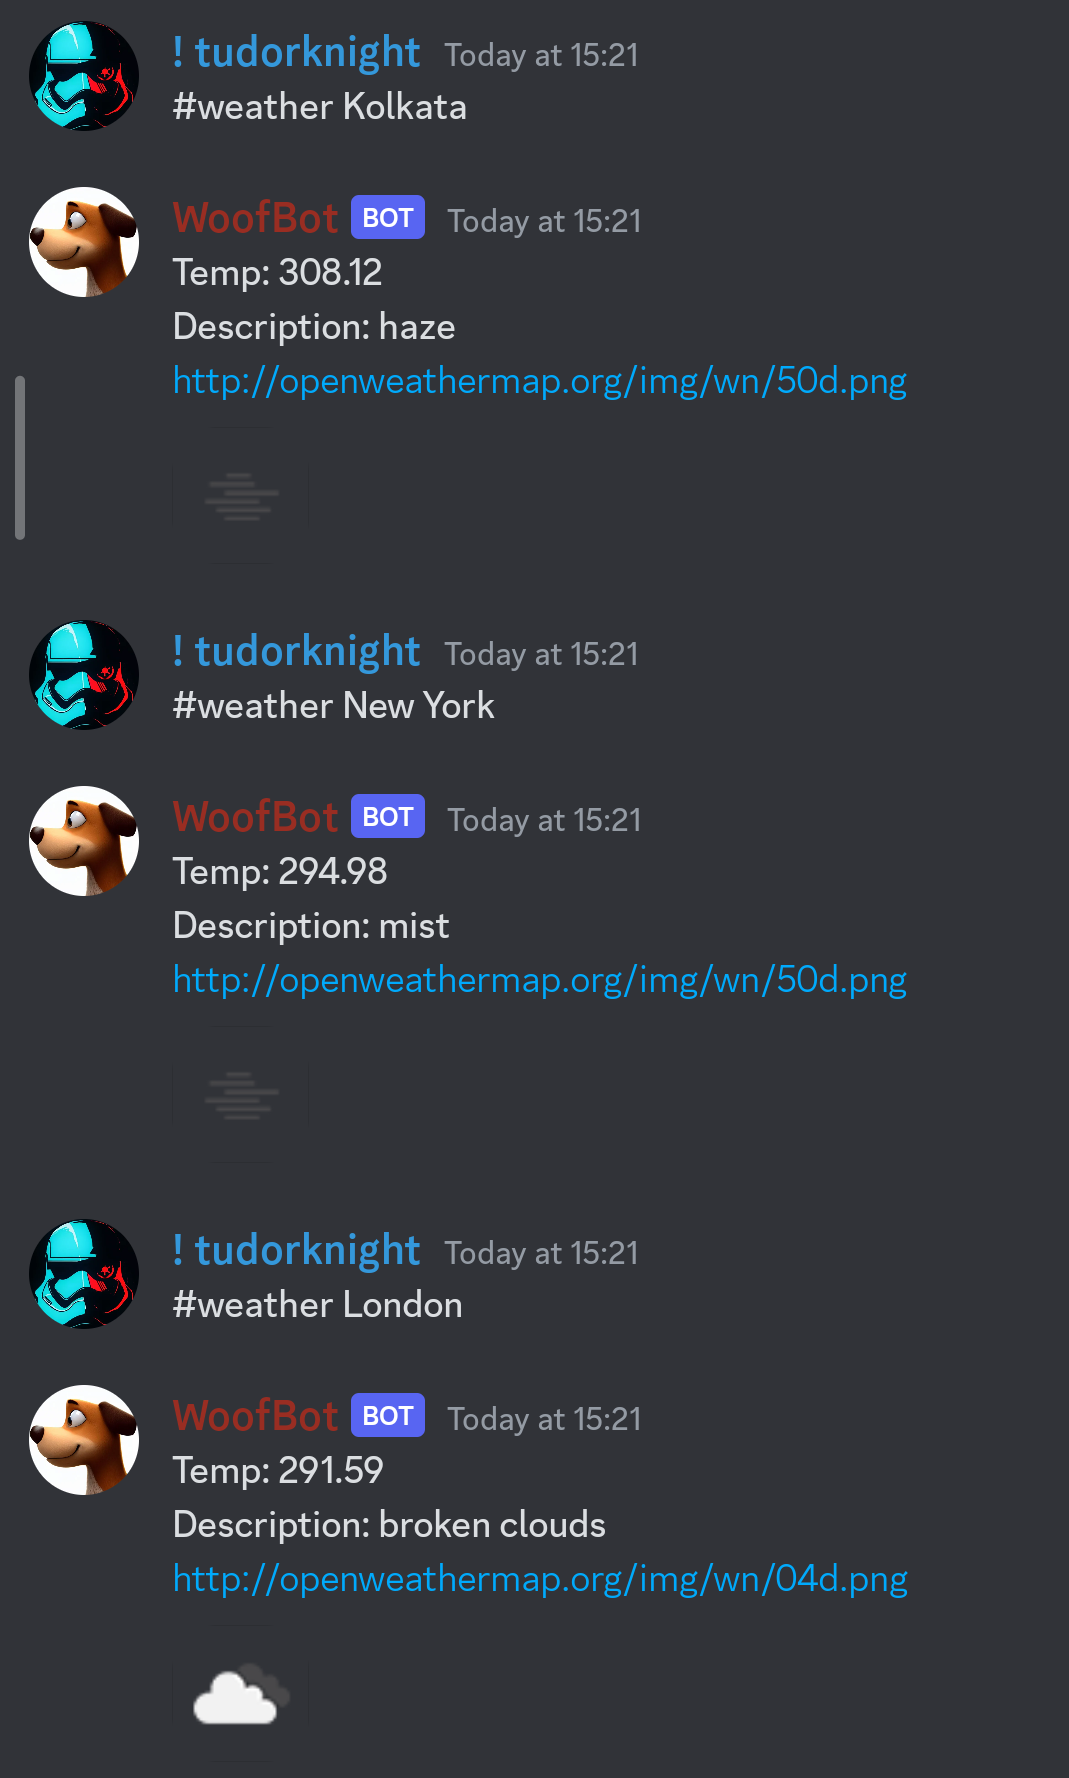
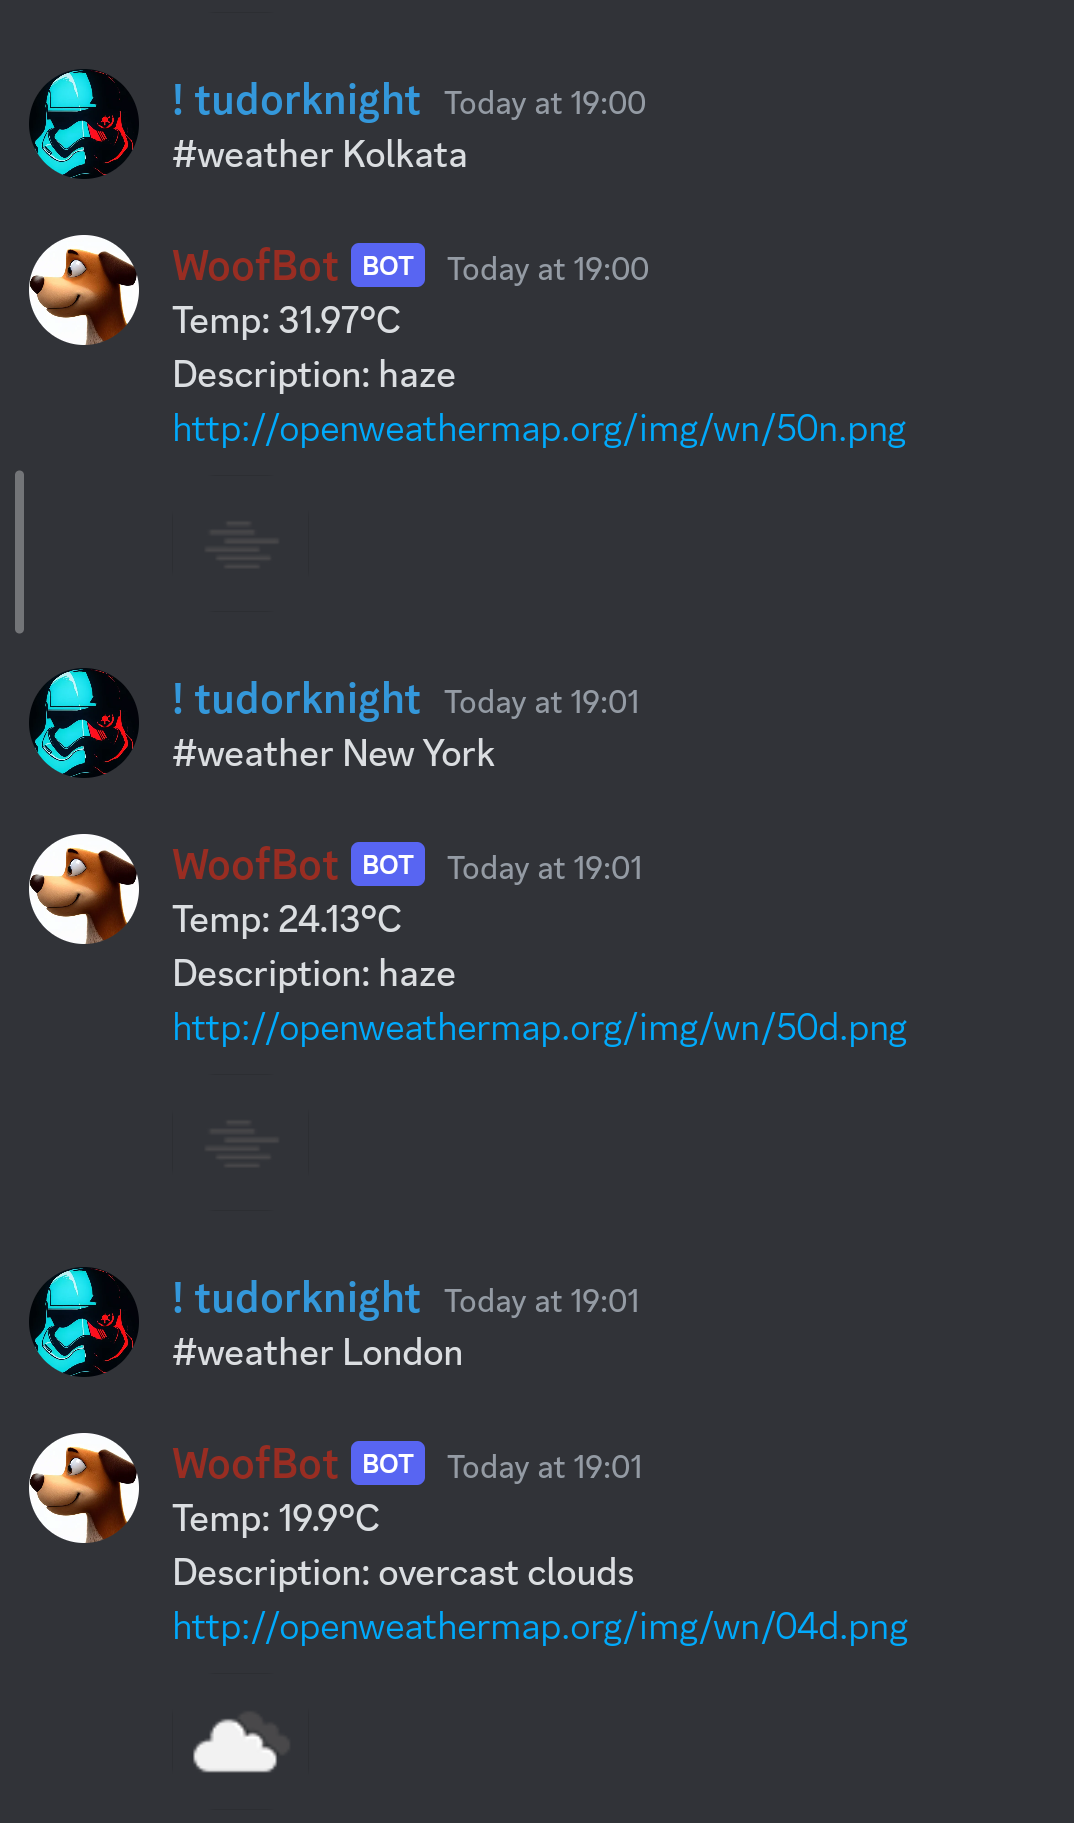
Fix the response of weather command

diff --git a/responses.py b/responses.py
@@ -33,9 +33,10 @@ def get_response(message: str) -> str:
         url = f"https://api.openweathermap.org/data/2.5/weather?q={city}&appid={aku.openWeatherApi}"
         rs = requests.get(url)
         data = rs.json()
+        temp = (data["main"]["temp"]) - 273.15
         icon = f'http://openweathermap.org/img/wn/{data["weather"][0]["icon"]}.png'
         
-        return f'Temp: {data["main"]["temp"]} \nDescription: {data["weather"][0]["description"]} \n{icon}'
+        return f'Temp: {temp:.{4}}°C \nDescription: {data["weather"][0]["description"]} \n{icon}'
 
 
     elif p_message == "#help":
